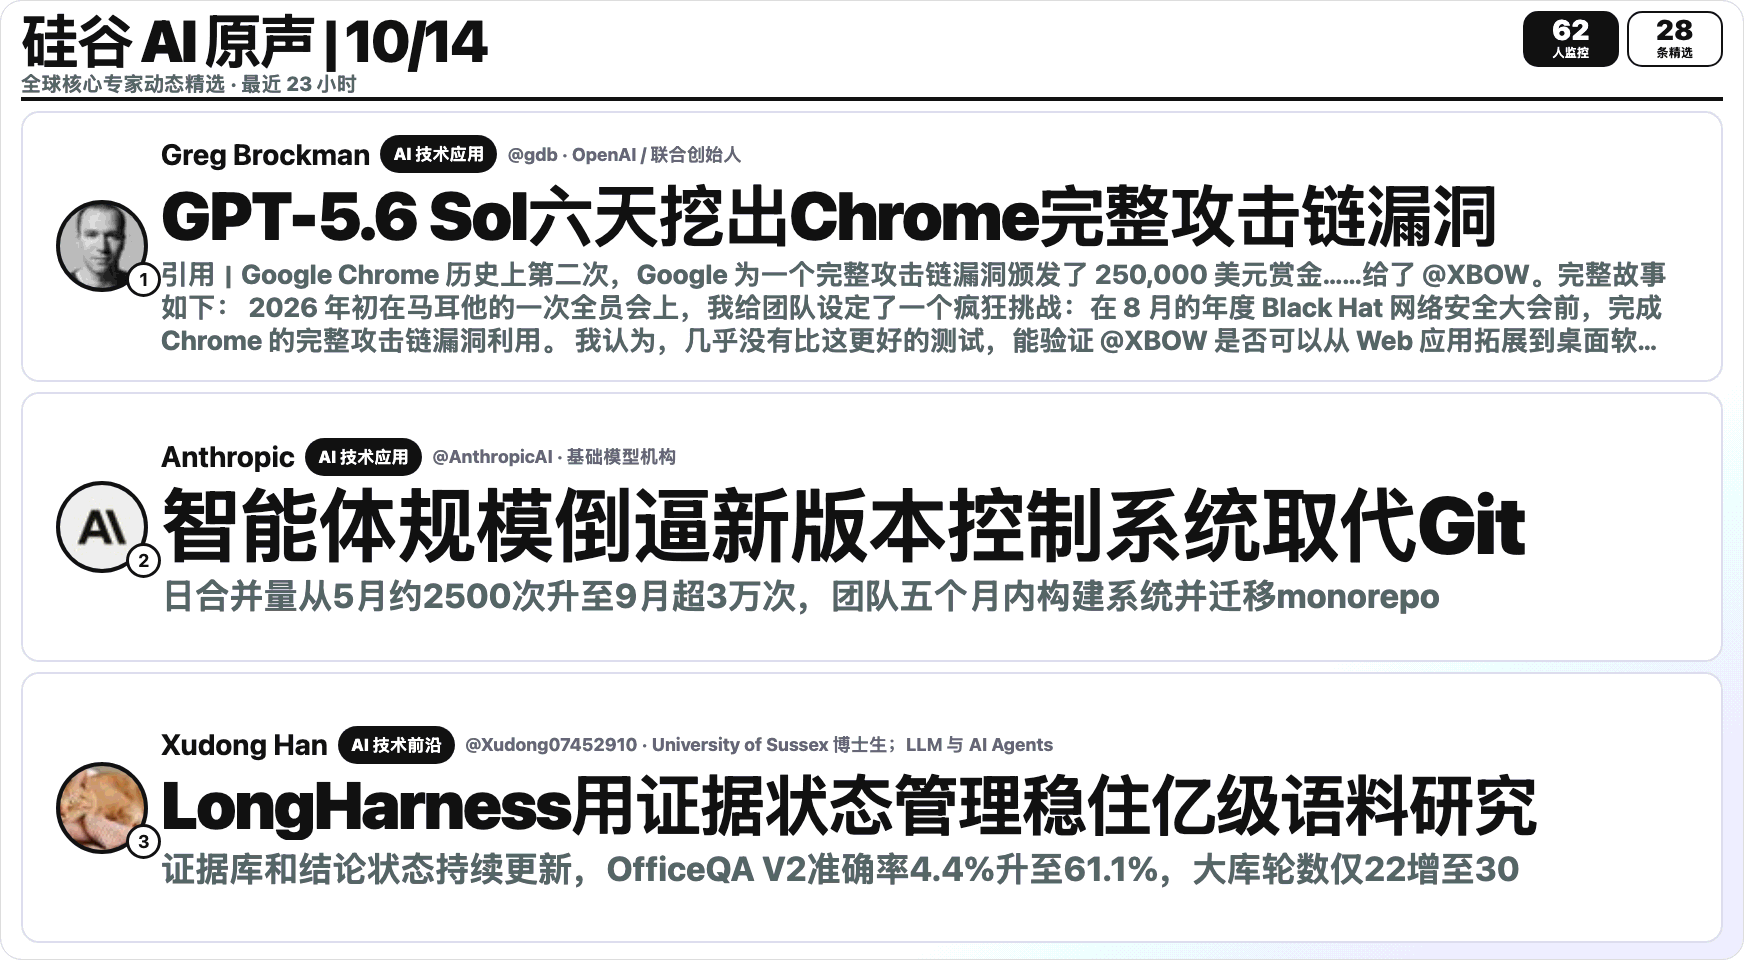
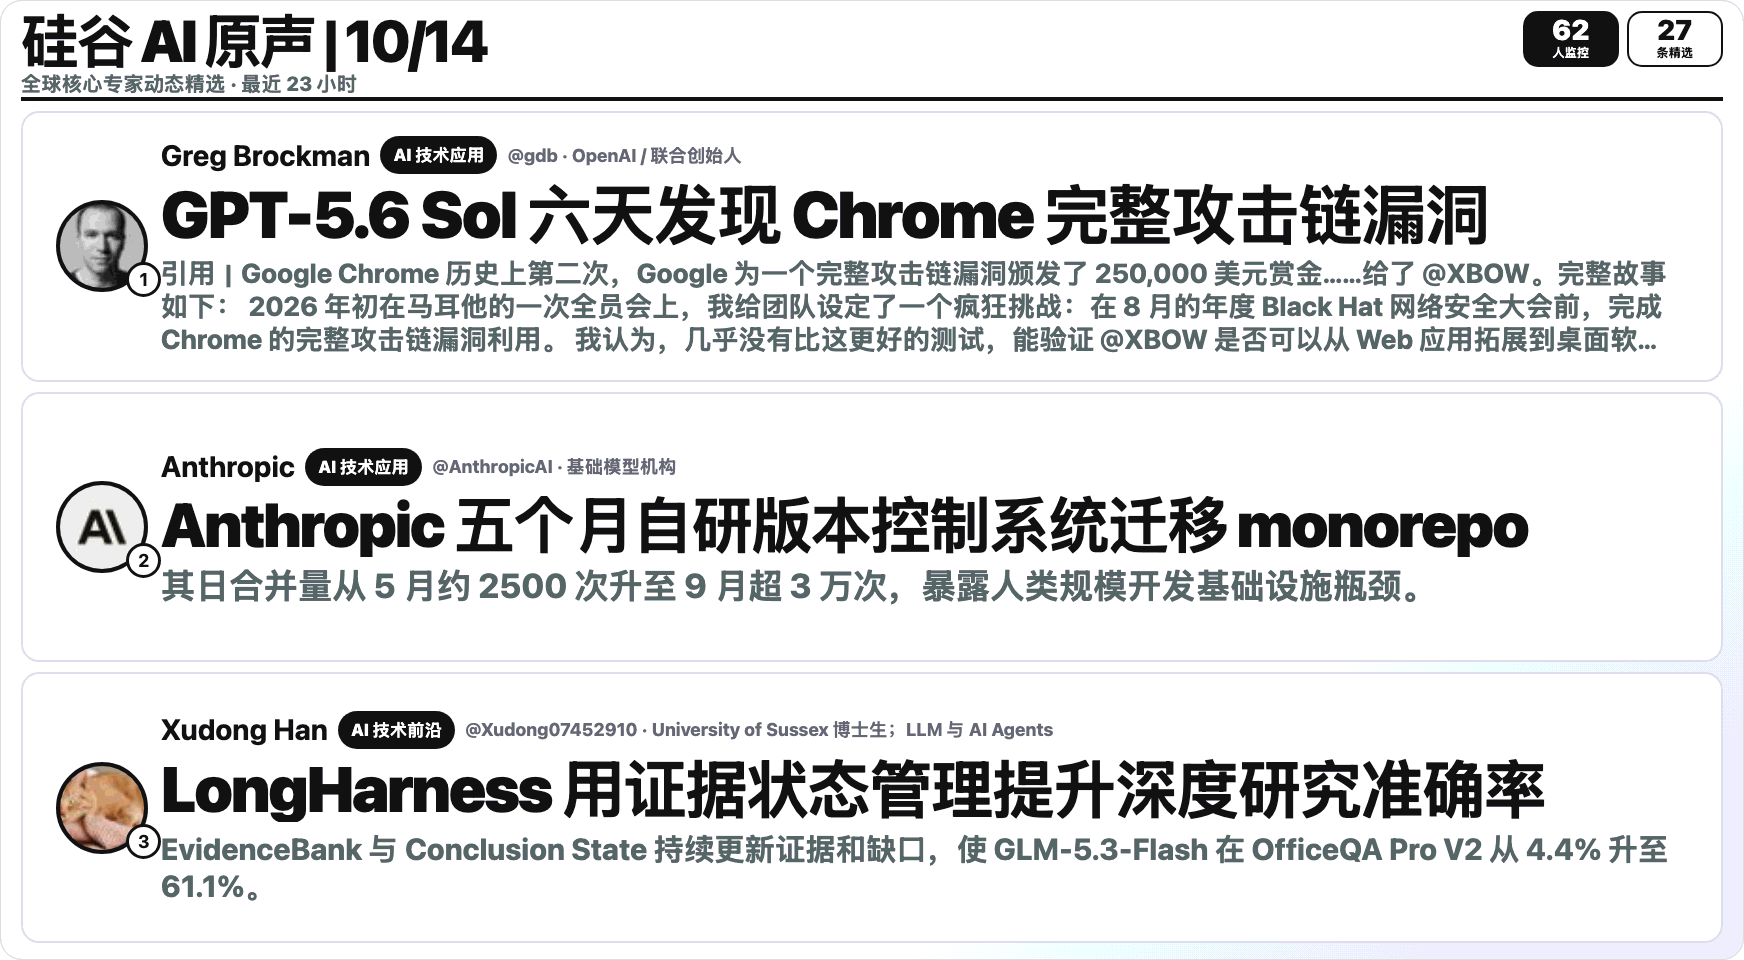
chore: publish AI radar 20261014 0716 Beijing

Changed region(s): [[0.0929, 0.1562, 0.9599, 0.375], [0.0929, 0.7188, 0.9599, 0.9375], [0.0929, 0.4375, 0.8979, 0.6562]]

diff --git a/ai-v-radar/20261014/index.html b/ai-v-radar/20261014/index.html
@@ -28,7 +28,7 @@
   <div class="shell">
     <header class="hero">
       <h1>硅谷 AI 原声 <span class="report-date">· 2026-10-14</span></h1>
-      <div class="metrics"><div class="metric"><strong>62</strong><span>监控专家</span></div><div class="metric"><strong>15</strong><span>活跃专家</span></div><div class="metric"><strong>28</strong><span>精选原文</span></div></div>
+      <div class="metrics"><div class="metric"><strong>62</strong><span>监控专家</span></div><div class="metric"><strong>15</strong><span>活跃专家</span></div><div class="metric"><strong>27</strong><span>精选原文</span></div></div>
     </header>
 
     <main class="grid">
@@ -180,24 +180,6 @@ Conclusion State 记录当前结论，以及还有哪些信息缺口没解决。
 
 
         <div class="card-bottom"><div class="engagement"><span>♡ 43</span><span>↻ 6</span><span>↩ 2</span></div><a href="https://x.com/Xudong07452910/status/2109955807781548215" target="_blank" rel="noreferrer">Open on X ↗</a></div>
-      </article>
-
-      <article class="signal-card" data-theme="editorial" data-priority="P0" data-expert="demishassabis" data-top-story="false">
-        <div class="card-top">
-          <div class="avatar"><img src="https://pbs.twimg.com/profile_images/1990472620614053888/xrAu0wQL_normal.jpg" alt="Demis Hassabis avatar" loading="lazy"></div>
-          <div class="identity"><strong>Demis Hassabis</strong><span>@demishassabis · Google DeepMind / CEO</span></div>
-          <div class="score">91<small>signal</small></div>
-        </div>
-        <div class="meta"><span class="priority">P0</span><span>Google DeepMind</span><time>10-14 00:59 北京</time></div>
-        <p class="post-text original" lang="auto">I love lasers (really wanted to work on them as a kid)… especially Argon lasers 😀 reminded me of this scene from one of my fave films: ‘synthesize excited bromide in an argon matrix… but that would be hotter than the sun’ 😂 Val Kilmer was so cool https://t.co/A7BKAJDJhm</p><p class="post-text translation" lang="zh-CN">我喜欢激光（小时候真的很想研究它们）……尤其是 Argon 激光 😀 让我想起我最喜欢的电影之一里的这个场景：“在氩基质中合成激发态溴化物……但那会比太阳还热” 😂 Val Kilmer 太酷了 https://t.co/A7BKAJDJhm</p>
-
-
-        <div class="quote"><div class="quote__author"><div class="quote-avatar"><img src="https://pbs.twimg.com/profile_images/1990472620614053888/xrAu0wQL_normal.jpg" alt="Demis Hassabis avatar" loading="lazy"></div><div><strong>Demis Hassabis</strong><span>@demishassabis</span></div></div><p class="quote-text original" lang="auto">Gemini 4 Argon is amazing for knowledge work and coding - and it’s super fun to build with! We asked it to create this wizard chess game and it&#x27;s so cool to see Argon&#x27;s physics understanding &amp; 3D modelling capabilities, makes me nostalgic for Battlechess on the Amiga - fun times!
-
-Argon is rolling out today to Google Ultra and Pro subscribers in the @GeminiApp and Search, and Ultra subscribers in @antigravity! More info &amp; full availability in the blog: https://t.co/7d3791mRNH</p><p class="quote-text translation" lang="zh-CN">Gemini 4 Argon 在知识工作和编码方面非常出色，而且用它构建东西也特别有趣！我们让它创建了这个巫师棋游戏，看到 Argon 对物理的理解和 3D 建模能力真的很酷，让我怀念 Amiga 上的 Battlechess，真是好时光！
-
-Argon 今天开始向 @GeminiApp 和 Search 中的 Google Ultra 与 Pro 订阅用户推出，也向 @antigravity 中的 Ultra 订阅用户推出！更多信息和完整可用范围见博客：https://t.co/7d3791mRNH</p><div class="media-grid media-grid--1"><a class="media-item" href="https://pbs.twimg.com/amplify_video_thumb/2110040604264820737/img/rmwzw1tXnpyBPn6c.jpg" target="_blank" rel="noreferrer"><img loading="lazy" src="https://pbs.twimg.com/amplify_video_thumb/2110040604264820737/img/rmwzw1tXnpyBPn6c.jpg" alt="X post media"><span>VIDEO</span></a></div><a class="quote-link" href="https://x.com/demishassabis/status/2110041008100843835" target="_blank" rel="noreferrer">查看引用动态 ↗</a></div>
-        <div class="card-bottom"><div class="engagement"><span>♡ 1,040</span><span>↻ 52</span><span>↩ 69</span></div><a href="https://x.com/demishassabis/status/2110052931110318464" target="_blank" rel="noreferrer">Open on X ↗</a></div>
       </article>
 
       <article class="signal-card" data-theme="editorial" data-priority="P0" data-expert="demishassabis" data-top-story="false">

diff --git a/ai-v-radar/20261014/poster.html b/ai-v-radar/20261014/poster.html
@@ -16,11 +16,11 @@
   h2{display:-webkit-box;max-height:2.12em;margin:0;overflow:hidden;overflow-wrap:anywhere;font-size:var(--headline-size,56px);line-height:1.06;font-weight:950;letter-spacing:-1.8px;-webkit-box-orient:vertical;-webkit-line-clamp:2} .story p{margin:8px 0 0;overflow-wrap:anywhere;color:#5d626b;font-size:30px;line-height:1.25;font-weight:750;white-space:normal}
   .story--sparse p{font-size:34px;line-height:1.22} .story--dense p{font-size:27px;line-height:1.23}
   .story--quote p{display:-webkit-box;max-height:3.75em;overflow:hidden;-webkit-box-orient:vertical;-webkit-line-clamp:3}
-</style></head><body><div class="poster"><header><div><h1>硅谷 AI 原声 <span>| 10/14</span></h1><div class="subtitle">全球核心专家动态精选 · 最近 23 小时</div></div><div class="stats"><div class="stat"><strong>62</strong><small>人监控</small></div><div class="stat"><strong>28</strong><small>条精选</small></div></div></header><main><article class="story story--dense story--quote" style="--headline-size:67px">
+</style></head><body><div class="poster"><header><div><h1>硅谷 AI 原声 <span>| 10/14</span></h1><div class="subtitle">全球核心专家动态精选 · 最近 23 小时</div></div><div class="stats"><div class="stat"><strong>62</strong><small>人监控</small></div><div class="stat"><strong>27</strong><small>条精选</small></div></div></header><main><article class="story story--dense story--quote" style="--headline-size:65px">
         <div class="portrait"><div class="avatar"><img src="https://pbs.twimg.com/profile_images/1347621377503711233/bHg3ipfD_normal.jpg" alt="Greg Brockman"></div><b>1</b></div>
         <div class="story-body">
           <div class="byline"><strong>Greg Brockman</strong><em>AI 技术应用</em><span>@gdb · OpenAI / 联合创始人</span></div>
-          <h2>GPT-5.6 Sol六天挖出Chrome完整攻击链漏洞</h2>
+          <h2>GPT-5.6 Sol 六天发现 Chrome 完整攻击链漏洞</h2>
           <p>引用｜Google Chrome 历史上第二次，Google 为一个完整攻击链漏洞颁发了 250,000 美元赏金……给了 @XBOW。完整故事如下：
 
 2026 年初在马耳他的一次全员会上，我给团队设定了一个疯狂挑战：在 8 月的年度 Black Hat 网络安全大会前，完成 Chrome 的完整攻击链漏洞利用。
@@ -59,18 +59,18 @@ XBOW 现在正在开发一款用于测试编译型软件（桌面应用、服务
 
 附：只要出现 Update 按钮，就重启 Chrome！</p>
         </div>
-      </article><article class="story story--sparse" style="--headline-size:80px">
+      </article><article class="story story--sparse" style="--headline-size:61px">
         <div class="portrait"><div class="avatar"><img src="https://pbs.twimg.com/profile_images/1798110641414443008/XP8gyBaY_normal.jpg" alt="Anthropic"></div><b>2</b></div>
         <div class="story-body">
           <div class="byline"><strong>Anthropic</strong><em>AI 技术应用</em><span>@AnthropicAI · 基础模型机构</span></div>
-          <h2>智能体规模倒逼新版本控制系统取代Git</h2>
-          <p>日合并量从5月约2500次升至9月超3万次，团队五个月内构建系统并迁移monorepo</p>
+          <h2>Anthropic 五个月自研版本控制系统迁移 monorepo</h2>
+          <p>其日合并量从 5 月约 2500 次升至 9 月超 3 万次，暴露人类规模开发基础设施瓶颈。</p>
         </div>
-      </article><article class="story story--sparse" style="--headline-size:66px">
+      </article><article class="story story--balanced" style="--headline-size:63px">
         <div class="portrait"><div class="avatar"><img src="https://pbs.twimg.com/profile_images/1327292688736034816/vJTxjjLU_normal.jpg" alt="Xudong Han"></div><b>3</b></div>
         <div class="story-body">
           <div class="byline"><strong>Xudong Han</strong><em>AI 技术前沿</em><span>@Xudong07452910 · University of Sussex 博士生；LLM 与 AI Agents</span></div>
-          <h2>LongHarness用证据状态管理稳住亿级语料研究</h2>
-          <p>证据库和结论状态持续更新，OfficeQA V2准确率4.4%升至61.1%，大库轮数仅22增至30</p>
+          <h2>LongHarness 用证据状态管理提升深度研究准确率</h2>
+          <p>EvidenceBank 与 Conclusion State 持续更新证据和缺口，使 GLM-5.3-Flash 在 OfficeQA Pro V2 从 4.4% 升至 61.1%。</p>
         </div>
       </article></main></div><script>window.scrollTo(0,0);document.documentElement.scrollTop=0;document.body.scrollTop=0;</script></body></html>
